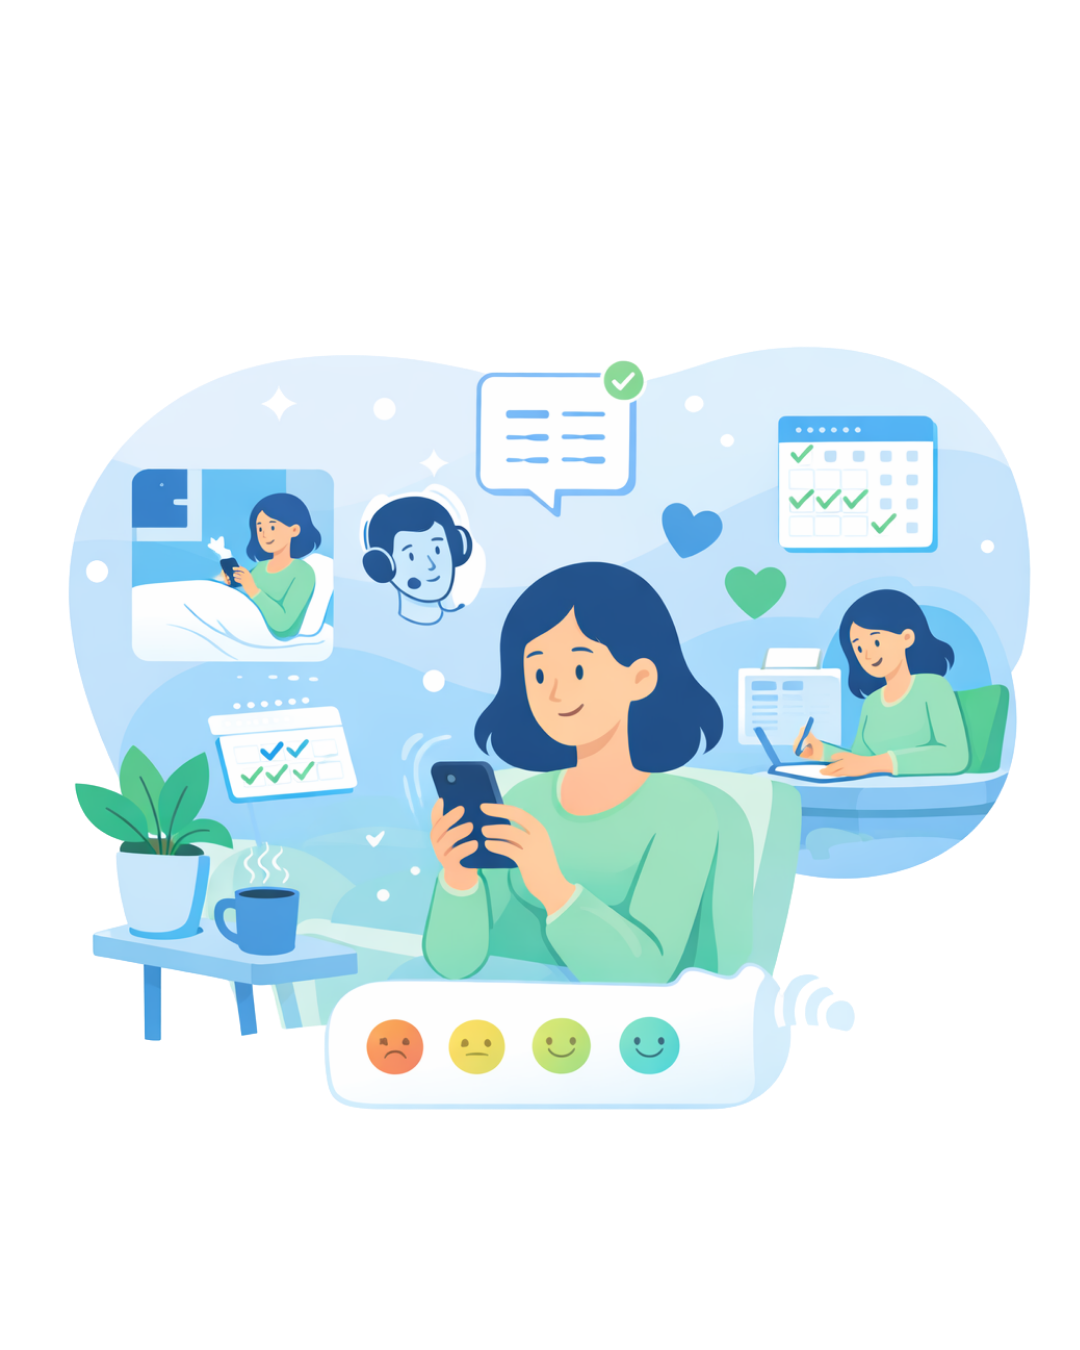
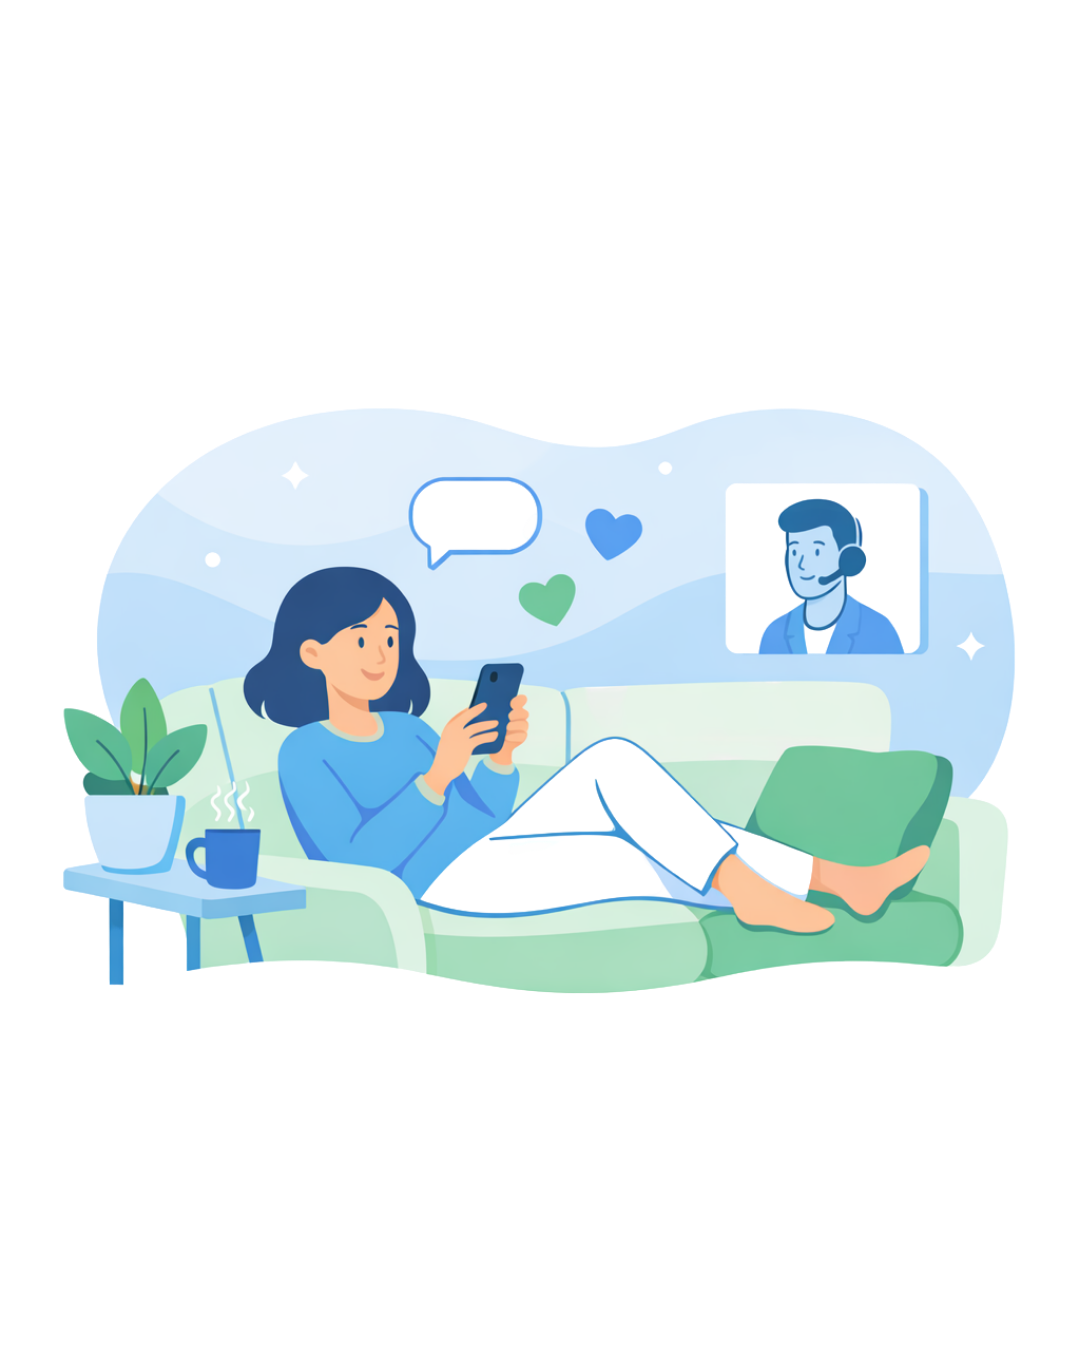
onboarding screens working

diff --git a/src/screens/onboarding/OnboardingScreen.tsx b/src/screens/onboarding/OnboardingScreen.tsx
@@ -1,23 +1,29 @@
 // src/screens/onboarding/OnboardingScreen.tsx
 import { useState } from "react";
 import { View } from "react-native";
-import { onboardingSlides } from "./onboarding.data";
+
+import { onboardingSlides } from "../../components/onboarding/onboarding.data";
 import { OnboardingSlide } from "../../components/onboarding/OnboardingSlide";
 
 export function OnboardingScreen() {
   const [index, setIndex] = useState(0);
+
   const total = onboardingSlides.length;
   const data = onboardingSlides[index];
 
+  if (!data) return null;
+
   const goNext = () => {
-    if (index < total - 1) setIndex(index + 1);
-    else {
-      // acá después navegamos a Register/Login
-      // por ahora: no hacemos nada
+    if (index < total - 1) {
+      setIndex(index + 1);
+    } else {
+      // TODO: navegar a Login / Register
     }
   };
 
-  const skip = () => setIndex(total - 1);
+  const skip = () => {
+    setIndex(total - 1);
+  };
 
   return (
     <View style={{ flex: 1 }}>
